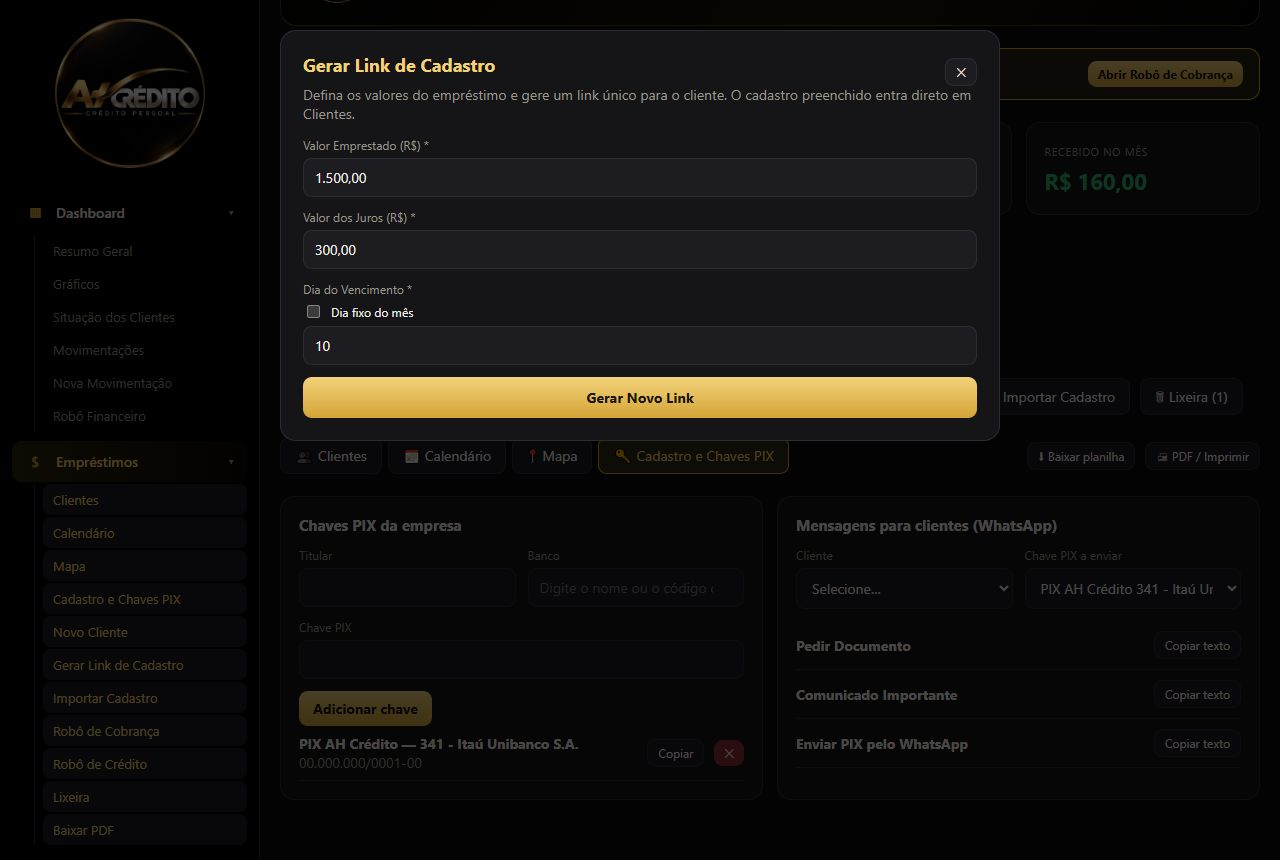
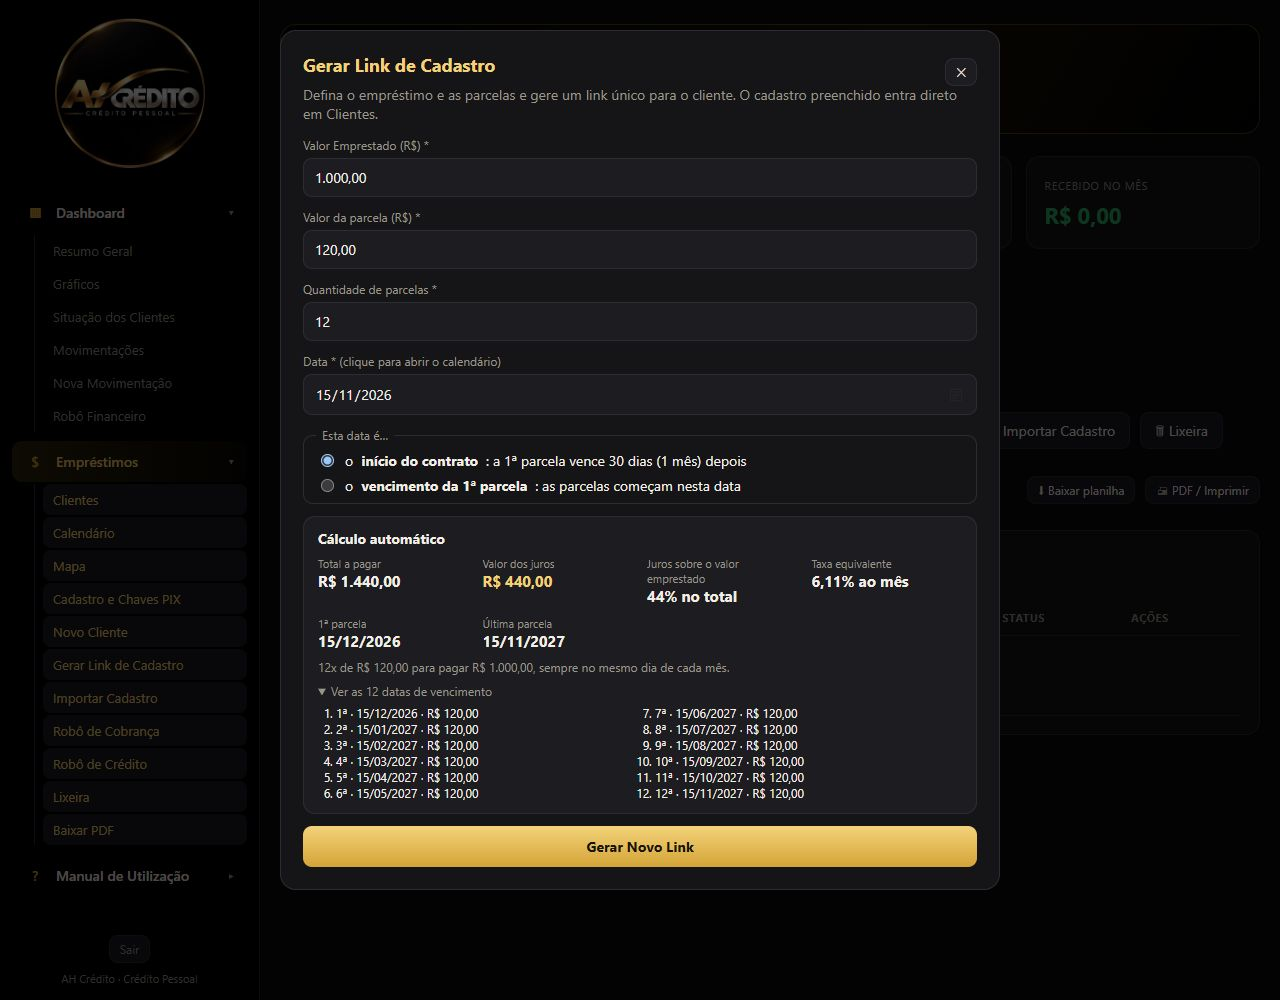
Link com parcelamento (calendário, parcelas, juros automáticos); mapa: Referrer-Policy para o OpenStreetMap

diff --git a/src/components/GerarLink.jsx b/src/components/GerarLink.jsx
@@ -1,24 +1,34 @@
-import { useState } from 'react'
+import { useMemo, useState } from 'react'
 import { Field, Modal, MoneyInput, ZapLinks } from './ui'
 import { api } from '../lib/api'
 import { msgCadastro } from '../lib/cadastro'
 import { useStore } from '../lib/store'
-import { brl, parseMoeda } from '../lib/utils'
+import { brl, fmtData, parseMoeda } from '../lib/utils'
 import { baixarModelo, lerPlanilha } from '../lib/planilha'
+import { calcular } from '../../shared/parcelas'
+
+const pct = (n) => `${String(n).replace('.', ',')}%`
 
 export default function GerarLink({ onClose }) {
-  const [f, setF] = useState({ valor: '', juros: '', dia: '', fixo: false })
+  const [f, setF] = useState({ valor: '', parcela: '', n: '', data: '', modo: 'inicio' })
   const [link, setLink] = useState('')
   const [copiado, setCopiado] = useState('')
   const [erro, setErro] = useState('')
   const [gerando, setGerando] = useState(false)
+  const set = (k) => (e) => setF((x) => ({ ...x, [k]: e.target.value }))
+
+  const calc = useMemo(
+    () => calcular({ valor: parseMoeda(f.valor), parcela: parseMoeda(f.parcela), n: f.n, data: f.data, modo: f.modo }),
+    [f],
+  )
+  const pronto = Boolean(calc) && !calc.semJuros
 
   const gerar = async (e) => {
     e.preventDefault()
     setErro('')
     setGerando(true)
     try {
-      const { token } = await api.post('/links', { v: parseMoeda(f.valor), j: parseMoeda(f.juros), d: parseInt(f.dia, 10) || 1, f: f.fixo })
+      const { token } = await api.post('/links', { v: parseMoeda(f.valor), p: parseMoeda(f.parcela), n: parseInt(f.n, 10), data: f.data, modo: f.modo })
       setLink(location.href.split('#')[0] + '#cad-' + token)
     } catch (err) {
       setErro(err.message)
@@ -32,23 +42,55 @@ export default function GerarLink({ onClose }) {
   return (
     <Modal title="Gerar Link de Cadastro" onClose={onClose}>
       <p className="muted" style={{ marginTop: -6 }}>
-        Defina os valores do empréstimo e gere um link único para o cliente. O cadastro preenchido entra direto em Clientes.
+        Defina o empréstimo e as parcelas e gere um link único para o cliente. O cadastro preenchido entra direto em Clientes.
       </p>
       {!link ? (
         <form onSubmit={gerar} className="form" style={{ gridTemplateColumns: '1fr' }}>
           <Field label="Valor Emprestado (R$) *"><MoneyInput value={f.valor} onChange={(v) => setF((x) => ({ ...x, valor: v }))} required /></Field>
-          <Field label="Valor dos Juros (R$) *"><MoneyInput value={f.juros} onChange={(v) => setF((x) => ({ ...x, juros: v }))} required /></Field>
-          <Field label="Dia do Vencimento *">
-            <label className="row" style={{ gap: 8, color: 'var(--text)' }}>
-              <input type="checkbox" checked={f.fixo} onChange={(e) => setF({ ...f, fixo: e.target.checked })} style={{ width: 'auto' }} /> Dia fixo do mês
-            </label>
-            <input type="number" min="1" max="31" placeholder="1-31" value={f.dia} onChange={(e) => setF({ ...f, dia: e.target.value })} required />
+          <Field label="Valor da parcela (R$) *"><MoneyInput value={f.parcela} onChange={(v) => setF((x) => ({ ...x, parcela: v }))} required /></Field>
+          <Field label="Quantidade de parcelas *">
+            <input type="number" min="1" max="120" inputMode="numeric" placeholder="Ex.: 12" value={f.n} onChange={set('n')} required />
           </Field>
+          <Field label="Data *  (clique para abrir o calendário)">
+            <input type="date" value={f.data} onChange={set('data')} required />
+          </Field>
+          <fieldset className="opcoes">
+            <legend>Esta data é…</legend>
+            <label><input type="radio" name="modo" checked={f.modo === 'inicio'} onChange={() => setF((x) => ({ ...x, modo: 'inicio' }))} /> o <b>início do contrato</b>: a 1ª parcela vence 30 dias (1 mês) depois</label>
+            <label><input type="radio" name="modo" checked={f.modo === 'parcela'} onChange={() => setF((x) => ({ ...x, modo: 'parcela' }))} /> o <b>vencimento da 1ª parcela</b>: as parcelas começam nesta data</label>
+          </fieldset>
+
+          <div className="calc" aria-live="polite">
+            <b>Cálculo automático</b>
+            {!calc && <div className="muted">Preencha valor, parcela, quantidade e data para ver o total, os juros e as datas.</div>}
+            {calc && calc.semJuros && <div className="neg">As parcelas somam menos que o valor emprestado. Confira o valor da parcela.</div>}
+            {calc && !calc.semJuros && (
+              <>
+                <div className="calc-grade">
+                  <div><small className="muted">Total a pagar</small><b>{brl(calc.total)}</b></div>
+                  <div><small className="muted">Valor dos juros</small><b className="gold">{brl(calc.juros)}</b></div>
+                  <div><small className="muted">Juros sobre o valor emprestado</small><b>{pct(calc.jurosPctTotal)} no total</b></div>
+                  <div><small className="muted">Taxa equivalente</small><b>{pct(calc.taxaMes)} ao mês</b></div>
+                  <div><small className="muted">1ª parcela</small><b>{fmtData(calc.primeira)}</b></div>
+                  <div><small className="muted">Última parcela</small><b>{fmtData(calc.ultima)}</b></div>
+                </div>
+                <div className="muted" style={{ fontSize: 12 }}>{calc.n}x de {brl(calc.parcela)} para pagar {brl(calc.valor)}, sempre no mesmo dia de cada mês.</div>
+                <details>
+                  <summary className="muted" style={{ cursor: 'pointer', fontSize: 12 }}>Ver as {calc.n} datas de vencimento</summary>
+                  <ol className="datas">
+                    {calc.datas.map((d, i) => <li key={d}>{i + 1}ª · {fmtData(d)} · {brl(calc.parcela)}</li>)}
+                  </ol>
+                </details>
+              </>
+            )}
+          </div>
+
           {erro && <div className="neg" role="alert">{erro}</div>}
-          <button className="btn primary" disabled={gerando} style={{ justifyContent: 'center', padding: 11 }}>{gerando ? 'Gerando…' : 'Gerar Novo Link'}</button>
+          <button className="btn primary" disabled={gerando || !pronto} style={{ justifyContent: 'center', padding: 11 }}>{gerando ? 'Gerando…' : 'Gerar Novo Link'}</button>
         </form>
       ) : (
         <div className="form" style={{ gridTemplateColumns: '1fr' }}>
+          {calc && <div className="muted" style={{ textAlign: 'center' }}>{calc.n}x de {brl(calc.parcela)} · juros de {brl(calc.juros)} · {fmtData(calc.primeira)} a {fmtData(calc.ultima)}</div>}
           <div className="row" style={{ flexWrap: 'nowrap' }}>
             <input className="search" readOnly value={link} onFocus={(e) => e.target.select()} aria-label="Link de cadastro" />
             <button className="btn" onClick={copiar} aria-label="Copiar link">⧉</button>

diff --git a/server/index.js b/server/index.js
@@ -4,6 +4,7 @@ import { fileURLToPath } from 'node:url'
 import bcrypt from 'bcryptjs'
 import express from 'express'
 import jwt from 'jsonwebtoken'
+import { calcular } from '../shared/parcelas.js'
 import { emTransacao, iniciarDb, q } from './db.js'
 
 const aqui = path.dirname(fileURLToPath(import.meta.url))
@@ -26,7 +27,7 @@ app.set('trust proxy', 1)
 app.disable('x-powered-by')
 app.use(express.json({ limit: '200kb' }))
 app.use((req, res, next) => {
-  res.set({ 'X-Content-Type-Options': 'nosniff', 'Referrer-Policy': 'same-origin', 'X-Frame-Options': 'DENY' })
+  res.set({ 'X-Content-Type-Options': 'nosniff', 'Referrer-Policy': 'strict-origin-when-cross-origin', // o mapa precisa identificar o site (o OpenStreetMap recusa pedidos sem Referer) 'X-Frame-Options': 'DENY' })
   next()
 })
 
@@ -180,12 +181,14 @@ app.get('/api/armazenamento', exigeLogin, asyncRota(async (req, res) => {
 
 /* ---------- link de cadastro do cliente ---------- */
 app.post('/api/links', exigeLogin, asyncRota(async (req, res) => {
-  const n = (v) => Math.max(0, Number(v) || 0)
+  const modo = req.body?.modo === 'parcela' ? 'parcela' : 'inicio'
+  const c = calcular({ valor: req.body?.v, parcela: req.body?.p, n: req.body?.n, data: req.body?.data, modo })
+  if (!c) return res.status(400).json({ erro: 'Confira o valor, a parcela, a quantidade de parcelas (1 a 120) e a data.' })
+  if (c.semJuros) return res.status(400).json({ erro: 'As parcelas somam menos que o valor emprestado. Confira o valor da parcela.' })
+  // os números derivados são recalculados aqui, no servidor, e não vêm prontos da tela
   const dados = {
-    v: n(req.body?.v),
-    j: n(req.body?.j),
-    d: Math.min(31, Math.max(1, parseInt(req.body?.d, 10) || 1)),
-    f: Boolean(req.body?.f),
+    v: c.valor, p: c.parcela, n: c.n, modo, data: req.body.data,
+    primeira: c.primeira, ultima: c.ultima, total: c.total, juros: c.juros, jurosPctTotal: c.jurosPctTotal, taxaMes: c.taxaMes,
   }
   const token = crypto.randomBytes(16).toString('base64url')
   await q('INSERT INTO links_cadastro (token, dados) VALUES ($1, $2::jsonb)', [token, JSON.stringify(dados)])
@@ -217,13 +220,18 @@ app.post('/api/public/cadastro/:token', limiteCadastro, asyncRota(async (req, re
     if (!link.rows[0]) return null
     const t = link.rows[0].dados
     const id = crypto.randomBytes(8).toString('hex')
+    const novo = t.p !== undefined // links antigos (valor + juros mensal + dia) continuam funcionando
+    const emprestimo = novo
+      ? {
+          valorEmprestado: t.v, valorParcela: t.p, jurosPct: t.taxaMes ?? 0, diaVencimento: Number(t.primeira.slice(8, 10)),
+          parcelas: t.n, primeiroVencimento: t.primeira, ultimoVencimento: t.ultima, totalAPagar: t.total, valorJuros: t.juros,
+          jurosPctTotal: t.jurosPctTotal, dataContrato: t.modo === 'inicio' ? t.data : null,
+        }
+      : { valorEmprestado: t.v, valorParcela: t.j, jurosPct: t.v ? +((t.j / t.v) * 100).toFixed(2) : 0, diaVencimento: t.d }
     const debtor = {
       ...cliente,
       id,
-      valorEmprestado: t.v,
-      valorParcela: t.j,
-      jurosPct: t.v ? +((t.j / t.v) * 100).toFixed(2) : 0,
-      diaVencimento: t.d,
+      ...emprestimo,
       pagos: [],
       criadoEm: hojeBR(),
       viaLink: true,

diff --git a/shared/parcelas.js b/shared/parcelas.js
@@ -1,0 +1,65 @@
+// Cálculo do parcelamento. Usado pelo servidor (link de cadastro) e pela tela (prévia), para os números baterem.
+// Datas sempre como texto "AAAA-MM-DD", sem fuso horário.
+
+const dois = (n) => String(n).padStart(2, '0')
+const arred = (n, casas = 2) => Math.round((n + Number.EPSILON) * 10 ** casas) / 10 ** casas
+
+export function dataValida(iso) {
+  if (!/^\d{4}-\d{2}-\d{2}$/.test(String(iso))) return false
+  const [a, m, d] = iso.split('-').map(Number)
+  const t = new Date(Date.UTC(a, m - 1, d))
+  return t.getUTCFullYear() === a && t.getUTCMonth() === m - 1 && t.getUTCDate() === d
+}
+
+/** Soma k meses mantendo o dia (dia 31 vira o último dia dos meses menores). */
+export function somaMeses(iso, k) {
+  const [a, m, d] = iso.split('-').map(Number)
+  const total = a * 12 + (m - 1) + k
+  const ano = Math.floor(total / 12)
+  const mes = total % 12
+  const ultimo = new Date(Date.UTC(ano, mes + 1, 0)).getUTCDate()
+  return `${ano}-${dois(mes + 1)}-${dois(Math.min(d, ultimo))}`
+}
+
+/**
+ * Taxa de juros ao mês que faz n parcelas iguais de `parcela` pagarem `valor` (juros compostos, parcelas no fim de cada mês).
+ * Devolve 0 se não há juros e null se as parcelas somam menos que o valor.
+ */
+export function taxaMensal(valor, parcela, n) {
+  if (!(valor > 0) || !(parcela > 0) || !(n >= 1)) return null
+  const soma = parcela * n
+  if (soma < valor - 0.005) return null
+  if (Math.abs(soma - valor) < 0.005) return 0
+  const f = (i) => parcela * (1 - (1 + i) ** -n) / i - valor
+  let baixo = 1e-9
+  let alto = 10 // 1000% ao mês
+  if (f(alto) > 0) return alto
+  for (let k = 0; k < 200; k++) {
+    const meio = (baixo + alto) / 2
+    if (f(meio) > 0) baixo = meio
+    else alto = meio
+  }
+  return (baixo + alto) / 2
+}
+
+/**
+ * modo "inicio": a data escolhida é o início do contrato e a 1ª parcela vence um mês depois.
+ * modo "parcela": a data escolhida já é o vencimento da 1ª parcela.
+ */
+export function calcular({ valor, parcela, n, data, modo = 'inicio' }) {
+  const v = Number(valor), p = Number(parcela), q = parseInt(n, 10)
+  if (!(v > 0) || !(p > 0) || !(q >= 1 && q <= 120) || !dataValida(data)) return null
+  const primeira = modo === 'parcela' ? data : somaMeses(data, 1)
+  const datas = Array.from({ length: q }, (_, i) => somaMeses(primeira, i))
+  const total = arred(p * q)
+  const taxa = taxaMensal(v, p, q)
+  return {
+    valor: v, parcela: p, n: q, modo, inicio: modo === 'inicio' ? data : null,
+    total,
+    juros: arred(total - v),
+    jurosPctTotal: arred(((total - v) / v) * 100),
+    taxaMes: taxa === null ? null : arred(taxa * 100, 2),
+    primeira, ultima: datas[datas.length - 1], datas,
+    semJuros: taxa === null, // true quando as parcelas somam menos que o valor emprestado
+  }
+}

diff --git a/src/pages/manualDados.js b/src/pages/manualDados.js
@@ -203,11 +203,13 @@ export const CAPITULOS = [
     resumo: 'O cliente preenche os próprios dados por um link, e o cadastro cai direto na lista de Clientes.',
     passos: [
       'Clique em Gerar Link de Cadastro.',
-      'Informe o Valor Emprestado, o Valor dos Juros e o Dia do Vencimento. Marque "Dia fixo do mês" se for o caso.',
-      'Clique em Gerar Novo Link.',
+      'Informe o Valor Emprestado, o Valor da parcela e a Quantidade de parcelas.',
+      'Clique no campo Data: abre um calendário para você escolher o dia. Depois marque o que a data significa: início do contrato (a 1ª parcela vence 30 dias, ou seja, 1 mês depois) ou vencimento da 1ª parcela.',
+      'O sistema calcula sozinho, em "Cálculo automático": total a pagar, valor dos juros, juros em % no total, taxa ao mês, 1ª e última parcela. "Ver as N datas de vencimento" lista todas as datas. Exemplo: R$ 1.000,00 em 12x de R$ 120,00, com contrato em 15/11/2026, dá 1ª parcela em 15/12/2026, última em 15/11/2027, total de R$ 1.440,00 e juros de R$ 440,00.',
+      'Clique em Gerar Novo Link. O botão só libera quando os dados estão corretos; se as parcelas somarem menos que o valor emprestado, o sistema avisa.',
       'Use Copiar Link ou WhatsApp / Web para enviar ao cliente. A mensagem de cadastro já vai pronta.',
       'O cliente abre o link, vê o resumo do empréstimo, preenche nome, CPF, telefone, CEP e endereço e clica em Enviar cadastro.',
-      'O cadastro aparece sozinho em Clientes, com a etiqueta "via link". Se a tela estiver aberta, ela se atualiza em até 45 segundos.',
+      'O cadastro aparece sozinho em Clientes, com a etiqueta "via link". Na ficha do cliente ficam gravados o parcelamento, o total a pagar, os juros e o 1º e o último vencimento. Se a tela estiver aberta, ela se atualiza em até 45 segundos.',
     ],
     imagens: [
       ['17-gerar-link-valores.jpg', 'Janela Gerar Link de Cadastro com os valores preenchidos'],

diff --git a/src/styles.css b/src/styles.css
@@ -166,3 +166,14 @@ button:disabled { opacity: .5; cursor: not-allowed; }
 .olho { position: absolute; right: 4px; top: 50%; transform: translateY(-50%); width: 38px; height: 34px; display: flex; align-items: center; justify-content: center; background: none; border: 0; border-radius: 8px; color: var(--muted); cursor: pointer; }
 .olho:hover { color: var(--gold2); background: var(--panel); }
 .olho:focus-visible { outline: 2px solid var(--gold); }
+
+.opcoes { border: 1px solid var(--line); border-radius: 10px; padding: 8px 12px; margin: 0; display: flex; flex-direction: column; gap: 6px; }
+.opcoes legend { color: var(--muted); font-size: 12px; padding: 0 6px; }
+.opcoes label { display: flex; gap: 8px; align-items: flex-start; cursor: pointer; }
+.opcoes input { width: auto; margin-top: 3px; }
+.calc { background: var(--panel2); border: 1px solid var(--line); border-radius: 12px; padding: 12px 14px; display: flex; flex-direction: column; gap: 8px; }
+.calc-grade { display: grid; grid-template-columns: repeat(auto-fit, minmax(150px, 1fr)); gap: 10px 14px; }
+.calc-grade small { display: block; font-size: 11px; }
+.calc-grade b { font-size: 15px; }
+.datas { margin: 6px 0 0 18px; padding: 0; columns: 2; font-size: 12px; font-variant-numeric: tabular-nums; }
+input[type="date"]::-webkit-calendar-picker-indicator { filter: invert(.85); cursor: pointer; }

diff --git a/src/lib/cadastro.js b/src/lib/cadastro.js
@@ -1,4 +1,4 @@
-import { brl, soDigitos } from './utils'
+import { brl, fmtData, soDigitos } from './utils'
 
 export const EMPRESA = 'AH Crédito'
 export const saudacao = (h = new Date().getHours()) => (h < 12 ? '☀ Bom dia!' : h < 18 ? '🌤 Boa tarde!' : '🌙 Boa noite!')
@@ -10,7 +10,9 @@ export const msgDocumentos = () =>
   `${saudacao()}\n\nPara dar continuidade ao seu atendimento, por favor envie os seguintes documentos:\n\n📸 Frente e verso do seu RG ou CNH (foto nítida)\n🏠 Comprovante de residência atualizado\n\n📌 O comprovante de residência deve estar no seu nome ou no de seus pais, cônjuge (esposo/esposa).\n\n✅ Fico no aguardo!`
 
 export const resumoEmprestimo = (t) =>
-  `${brl(t.v)} emprestados · juros de ${brl(t.j)} · vencimento ${t.f ? 'fixo, todo dia ' : 'dia '}${t.d}`
+  t.p !== undefined
+    ? `${brl(t.v)} emprestados · ${t.n} parcelas de ${brl(t.p)} · 1ª em ${fmtData(t.primeira)} e última em ${fmtData(t.ultima)}`
+    : `${brl(t.v)} emprestados · juros de ${brl(t.j)} · vencimento ${t.f ? 'fixo, todo dia ' : 'dia '}${t.d}`
 
 export const telefoneWhats = (tel) => {
   const n = soDigitos(tel)

diff --git a/src/components/Clientes.jsx b/src/components/Clientes.jsx
@@ -183,6 +183,12 @@ export function DebtorDetail({ debtor, onClose, onEdit }) {
         <Dado k="Parcela mensal" v={brl(d.valorParcela)} />
         <Dado k="Juros" v={`${d.jurosPct || 0}% ao mês`} />
         <Dado k="Vencimento" v={`Dia ${d.diaVencimento}`} />
+        {d.parcelas ? <Dado k="Parcelamento" v={`${d.parcelas}x de ${brl(d.valorParcela)}`} /> : null}
+        {d.totalAPagar ? <Dado k="Total a pagar" v={brl(d.totalAPagar)} /> : null}
+        {d.valorJuros !== undefined && d.parcelas ? <Dado k="Valor dos juros" v={`${brl(d.valorJuros)}${d.jurosPctTotal !== undefined ? ` (${String(d.jurosPctTotal).replace('.', ',')}% no total)` : ''}`} /> : null}
+        {d.dataContrato ? <Dado k="Início do contrato" v={fmtData(d.dataContrato)} /> : null}
+        {d.primeiroVencimento ? <Dado k="1º vencimento" v={fmtData(d.primeiroVencimento)} /> : null}
+        {d.ultimoVencimento ? <Dado k="Último vencimento" v={fmtData(d.ultimoVencimento)} /> : null}
         <Dado k="Meses pagos" v={(d.pagos || []).join(', ') || 'nenhum'} />
         <Dado k="Cadastrado em" v={d.criadoEm ? fmtData(d.criadoEm) : ''} />
       </Secao>

diff --git a/src/lib/consulta.js b/src/lib/consulta.js
@@ -21,6 +21,7 @@ function fichaCliente(d, logs) {
     `Endereço: ${[d.endereco, d.numero, d.complemento, d.cidade, d.cep && 'CEP ' + d.cep].filter(Boolean).join(', ') || 'não cadastrado'}`,
     `Emprestado: ${brl(d.valorEmprestado)} · Parcela mensal: ${brl(d.valorParcela)} · Juros: ${d.jurosPct || 0}% a.m.`,
     `Vencimento: dia ${d.diaVencimento} · Meses pagos: ${(d.pagos || []).join(', ') || 'nenhum'}`,
+    d.parcelas ? `Parcelamento: ${d.parcelas}x de ${brl(d.valorParcela)} · total ${brl(d.totalAPagar)} · juros ${brl(d.valorJuros)} · de ${fmtData(d.primeiroVencimento)} até ${fmtData(d.ultimoVencimento)}` : null,
     d.cpf ? `CPF: ${d.cpf}${d.rg ? ` · RG: ${d.rg}` : ''}${d.email ? ` · E-mail: ${d.email}` : ''}` : null,
     d.banco || d.agencia || d.conta
       ? `Banco: ${[d.banco, d.agencia && `ag. ${d.agencia}`, d.conta && `conta ${d.conta}${d.tipoConta ? ` (${d.tipoConta})` : ''}`, d.titularConta && `titular ${d.titularConta}`].filter(Boolean).join(' · ')}`
